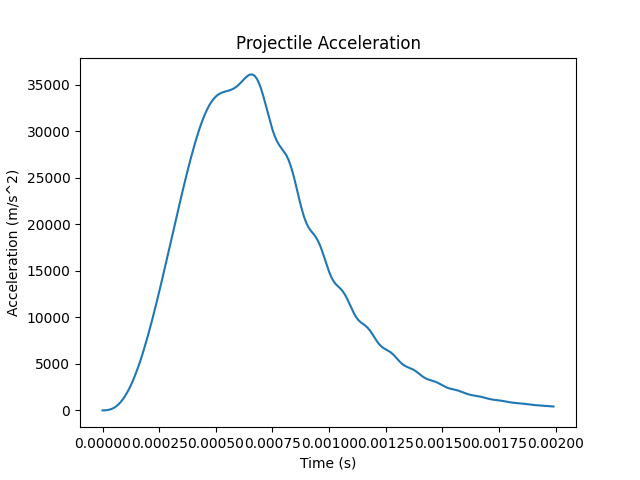
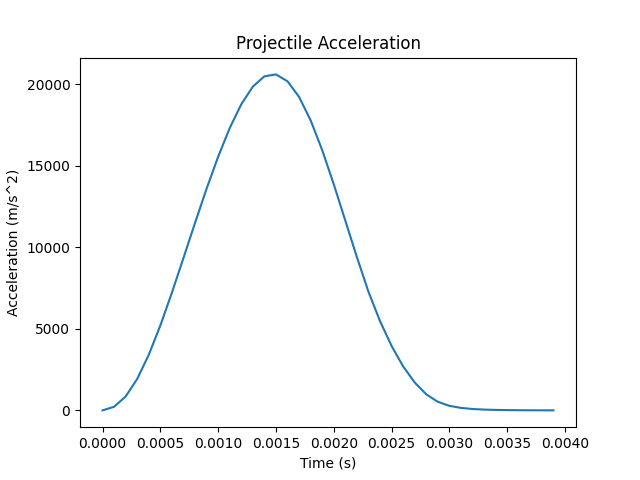
Conceptual stuff

diff --git a/Simulation/main_conceptual.py b/Simulation/main_conceptual.py
@@ -1,0 +1,148 @@
+import numpy as np
+import matplotlib.pyplot as plt
+import run_step as run
+import classes
+import parameters
+
+copper = parameters.copper
+
+# # Coils
+# # Material, inner radius, length, layers, wire diameter:
+# armature = classes.Coil(copper, 0.33 / 2, 3, 1, 0.025)
+#
+# # Projectile
+# # Coil, initial position, mass
+# projectile = classes.Projectile(armature, 0.1, 1250)
+#
+# stage_count = 20
+# stage_list = []
+#
+# # Material, inner radius, length, layers, wire diameter:
+# drivers = [classes.Coil(copper, 0.38 / 2, 3, 3, 0.025) for i in range(stage_count)]
+#
+# # Coil, position, trigger position, capacitance, charge voltage
+# stages = [classes.Stage(drivers[j], 3.0 * j, 3.0 * j, 0.01, 50000) for j in range(stage_count)]
+#
+# for i in range(stage_count):
+#     stage_list.append(stages[i])
+
+
+
+stage_count = 20
+stage_list = []
+
+# Material, inner radius, length, layers, wire diameter:
+armature = classes.Coil(copper, 0.33, 2, 1, 0.025)
+# Coil, initial position, mass
+projectile = classes.Projectile(armature, 0.05, 1250)
+
+# Material, inner radius, length, layers, wire diameter:
+drivers = [classes.Coil(copper, 0.35, 2, 1, 0.025) for i in range(stage_count)]
+# Coil, position, trigger position, capacitance, charge voltage
+stages = [classes.Stage(drivers[j], 2.0 * j, 2.0 * j, 0.02, 50000) for j in range(stage_count)]
+
+stages[0].capacitance = 0.075
+stages[0].layers = 3
+stages[1].capacitance = 0.05
+stages[1].layers = 2
+
+for i in range(stage_count):
+    stage_list.append(stages[i])
+
+
+efficiency = []
+driver_energy_sum = 0.
+driver_total_energy = []
+
+runtime = 0.25
+timestep = 0.0001
+
+for step in np.arange(0, runtime, timestep):
+    # Timestep, driver list, projectile
+    output = run.run_turn(timestep, stage_list, projectile)
+
+    driver_energy_sum = sum([drivers[k].energy for k in range(stage_count)])
+    driver_total_energy.append(driver_energy_sum)
+    efficiency.append(armature.energy / (driver_energy_sum + 0.001))
+
+time = np.arange(0, runtime, timestep)
+
+figp, p = plt.subplots()
+p.plot(time, projectile.position_list)
+p.set(xlabel='Time (s)', ylabel='Position (m)', title='Projectile Position')
+figp.savefig("conceptual_pos.png")
+
+figv, v = plt.subplots()
+v.plot(time, projectile.velocity_list)
+v.set(xlabel='Time (s)', ylabel='Velocity (m/s)', title='Projectile Velocity')
+figv.savefig("conceptual_vel.png")
+
+figa, p = plt.subplots()
+p.plot(time, projectile.acceleration_list)
+p.set(xlabel='Time (s)', ylabel='Acceleration (m/s^2)', title='Projectile Acceleration')
+figa.savefig("conceptual_accel.png")
+
+figi, i = plt.subplots()
+i.plot(time, projectile.coil.currents_list)
+ilegend = ["Armature"]
+for stage in range(len(stage_list)):
+    i.plot(time, stage_list[stage].coil.currents_list)
+    ilegend.append(("Driver " + str(stage + 1)))
+i.set(xlabel='Time (s)', ylabel='Currents (A)', title='Currents')
+i.legend(ilegend)
+figi.savefig("conceptual_currents.png")
+
+# figv, v = plt.subplots()
+# v.plot(time, projectile.coil.voltage_list)
+# for stage in range(len(stage_list)):
+#     v.plot(time, stage_list[stage].coil.voltage_list)
+# v.set(xlabel='Time (s)', ylabel='Voltages (V)', title='Voltages')
+# v.legend(['Armature', 'Driver 1', 'Driver 2', 'Driver 3', 'Driver 4', 'Driver 5'])
+# figv.savefig("conceptual_voltages.png")
+
+fign, n = plt.subplots()
+n.plot(time, efficiency)
+n.set(xlabel='Time (s)', ylabel='Efficiency', title='Coilgun Efficiency')
+fign.savefig("conceptual_efficiency.png")
+
+fige, e = plt.subplots()
+e.plot(time, projectile.coil.energy_list)
+e.plot(time, driver_total_energy)
+elegend = ["Armature", "Total Energy"]
+for stage in range(len(stage_list)):
+    e.plot(time, stage_list[stage].coil.energy_list)
+    elegend.append(("Driver " + str(stage + 1)))
+e.set(xlabel='Time (s)', ylabel='Energy (J)', title='Energy')
+e.legend(elegend)
+fige.savefig("conceptual_energy.png")
+
+figt, t = plt.subplots()
+t.plot(time, projectile.coil.temperature_list)
+tlegend = ["Armature"]
+for stage in range(len(stage_list)):
+    t.plot(time, stage_list[stage].coil.temperature_list)
+    tlegend.append(("Driver " + str(stage + 1)))
+t.set(xlabel='Time (s)', ylabel='Temperature (K)', title='Temperature')
+t.legend(tlegend)
+figt.savefig("conceptual_temperature.png")
+
+
+# a1 = stages[0].coil.r_inner - stages[0].coil.wire_d / 2
+# a2 = stages[0].coil.r_outer + stages[0].coil.wire_d / 2
+# w = (a2 - a1) / parameters.stress_element_divisions
+#
+# figs, (hoop, radial) = plt.subplots(nrows=2)
+# hoopc = hoop.contourf(time, np.arange(a1, a2, w), stages[0].coil.hoop_stress_list.T, cmap='plasma')
+# hoopcb = figs.colorbar(hoopc, ax=hoop)
+# hoopcb.set_label("Stress (Pa)", loc='center')
+# hoop.set(xlabel='Time (s)', ylabel='Radial Distance', title='Hoop Stress (Pa)')
+#
+# radialc = radial.contourf(time, np.arange(a1, a2, w), stages[0].coil.radial_stress_list.T, cmap='plasma')
+# radialcb = figs.colorbar(radialc, ax=radial)
+# radialcb.set_label("Stress (Pa)", loc='center')
+# radial.set(xlabel='Time (s)', ylabel='Radial Distance', title='Radial Stress (Pa)')
+# figs.savefig("conceptual_stress.png")
+
+
+
+plt.show()

diff --git a/Simulation/main.py b/Simulation/main.py
@@ -7,22 +7,22 @@ import parameters
 copper = parameters.copper
 
 # Coils
-# Material, inner radius, length, layers, wire diameter):
-armature = classes.Coil(copper, 0.0125, 0.1, 1, 0.001024)
+# Material, inner radius, length, layers, wire diameter:
+armature = classes.Coil(copper, 0.0125, 0.05, 1, 0.00129)
 
-driver1 = classes.Coil(copper, 0.015, 0.1, 1, 0.00129)
-driver2 = classes.Coil(copper, 0.015, 0.1, 1, 0.00129)
-driver3 = classes.Coil(copper, 0.015, 0.1, 1, 0.00129)
-driver4 = classes.Coil(copper, 0.015, 0.1, 1, 0.00129)
-driver5 = classes.Coil(copper, 0.015, 0.1, 1, 0.00129)
+driver1 = classes.Coil(copper, 0.015, 0.05, 3, 0.00129)
+driver2 = classes.Coil(copper, 0.015, 0.05, 2, 0.00129)
+driver3 = classes.Coil(copper, 0.015, 0.05, 2, 0.00129)
+driver4 = classes.Coil(copper, 0.015, 0.05, 2, 0.00129)
+driver5 = classes.Coil(copper, 0.015, 0.05, 2, 0.00129)
 
 # Stages
 # Coil, position, trigger position, capacitance, charge voltage
-stage1 = classes.Stage(driver1, 0.0, 0.0, 0.003 * 1, 1000)
-stage2 = classes.Stage(driver2, 0.1, 0.1, 0.003 * 1, 1000)
-stage3 = classes.Stage(driver3, 0.2, 0.2, 0.003 * 1, 1000)
-stage4 = classes.Stage(driver4, 0.3, 0.3, 0.003 * 1, 1000)
-stage5 = classes.Stage(driver5, 0.4, 0.4, 0.003 * 1, 1000)
+stage1 = classes.Stage(driver1, 0.0, 0.0, 0.0024 * 2, 450)
+stage2 = classes.Stage(driver2, 0.1, 0.1, 0.0024 * 2, 450)
+stage3 = classes.Stage(driver3, 0.2, 0.2, 0.0024 * 2, 450)
+stage4 = classes.Stage(driver4, 0.3, 0.3, 0.0024 * 2, 450)
+stage5 = classes.Stage(driver5, 0.4, 0.4, 0.0024 * 2, 450)
 
 # Projectile
 # Coil, initial position, mass
@@ -31,8 +31,8 @@ projectile = classes.Projectile(armature, 0.01, 0.1)
 stage_list = [stage1, stage2, stage3, stage4, stage5]
 efficiency = []
 
-runtime = 0.002
-timestep = 0.00001
+runtime = 0.004
+timestep = 0.0001
 
 for step in np.arange(0, runtime, timestep):
     # Timestep, driver list, projectile
@@ -79,21 +79,21 @@ n.plot(time, efficiency)
 n.set(xlabel='Time (s)', ylabel='Efficiency', title='Coilgun Efficiency')
 fign.savefig("efficiency.png")
 
-# fige, e = plt.subplots()
-# e.plot(time, projectile.coil.energy_list)
-# for stage in range(len(stage_list)):
-#     e.plot(time, stage_list[stage].coil.energy_list)
-# e.set(xlabel='Time (s)', ylabel='Energy (J)', title='Energy')
-# e.legend(['Armature', 'Driver 1', 'Driver 2', 'Driver 3', 'Driver 4', 'Driver 5'])
-# fige.savefig("energy.png")
+fige, e = plt.subplots()
+e.plot(time, projectile.coil.energy_list)
+for stage in range(len(stage_list)):
+    e.plot(time, stage_list[stage].coil.energy_list)
+e.set(xlabel='Time (s)', ylabel='Energy (J)', title='Energy')
+e.legend(['Armature', 'Driver 1', 'Driver 2', 'Driver 3', 'Driver 4', 'Driver 5'])
+fige.savefig("energy.png")
 
-# figt, t = plt.subplots()
-# t.plot(time, projectile.coil.temperature_list)
-# for stage in range(len(stage_list)):
-#     t.plot(time, stage_list[stage].coil.temperature_list)
-# t.set(xlabel='Time (s)', ylabel='Temperature (K)', title='Temperature')
-# t.legend(['Armature', 'Driver 1', 'Driver 2', 'Driver 3', 'Driver 4', 'Driver 5'])
-# figt.savefig("temperature.png")
+figt, t = plt.subplots()
+t.plot(time, projectile.coil.temperature_list)
+for stage in range(len(stage_list)):
+    t.plot(time, stage_list[stage].coil.temperature_list)
+t.set(xlabel='Time (s)', ylabel='Temperature (K)', title='Temperature')
+t.legend(['Armature', 'Driver 1', 'Driver 2', 'Driver 3', 'Driver 4', 'Driver 5'])
+figt.savefig("temperature.png")
 
 
 a1 = stage1.coil.r_inner - stage1.coil.wire_d / 2
@@ -102,13 +102,14 @@ w = (a2 - a1) / parameters.stress_element_divisions
 
 figs, (hoop, radial) = plt.subplots(nrows=2)
 hoopc = hoop.contourf(time, np.arange(a1, a2, w), stage1.coil.hoop_stress_list.T, cmap='plasma')
-figs.colorbar(hoopc, ax=hoop)
+hoopcb = figs.colorbar(hoopc, ax=hoop)
+hoopcb.set_label("Stress (Pa)", loc='center')
 hoop.set(xlabel='Time (s)', ylabel='Radial Distance', title='Hoop Stress (Pa)')
 
 radialc = radial.contourf(time, np.arange(a1, a2, w), stage1.coil.radial_stress_list.T, cmap='plasma')
-figs.colorbar(radialc, ax=radial)
+radialcb = figs.colorbar(radialc, ax=radial)
+radialcb.set_label("Stress (Pa)", loc='center')
 radial.set(xlabel='Time (s)', ylabel='Radial Distance', title='Radial Stress (Pa)')
-
 figs.savefig("stress.png")
 
 

diff --git a/Simulation/methods.py b/Simulation/methods.py
@@ -26,11 +26,8 @@ def mutual_inductance(stage, projectile):
     return M
 
 
-def solve_currents(stage, projectile, driver_step, armature_step):
-    armature = projectile.coil
+def solve_driver_current(stage, driver_step):
     driver = stage.coil
-    M = mutual_inductance(stage, projectile)
-
 
     # driver.current = stage.initial_voltage / driver.inductance * driver_step * \
     #                       pow(math.e, -driver.resistance / (2 * driver.inductance) * driver_step)
@@ -55,10 +52,15 @@ def solve_currents(stage, projectile, driver_step, armature_step):
         driver.peak_current = driver.current
         driver.diode_step = driver_step
 
+def solve_armature_current(stage, projectile, armature_step):
+    armature = projectile.coil
+    driver = stage.coil
+    M = mutual_inductance(stage, projectile)
+
     # transfer_eff = pow(M, 2) / (armature.inductance * driver.inductance)
     transfer_eff = 1
-    armature.current = transfer_eff * -M / armature.inductance * driver.current * (1 - pow(math.e, -armature_step / armature.tau))
-
+    armature_current = transfer_eff * -M / armature.inductance * driver.current * (1 - pow(math.e, -armature_step / armature.tau))
+    return armature_current
 
 def solve_stresses(coil):
     nu = coil.material.poisson

diff --git a/Simulation/run_step.py b/Simulation/run_step.py
@@ -14,13 +14,16 @@ def run_turn(timestep, stage_list, projectile):
         projectile.stage += 1
         print("Switched stage", switch + 1)
 
+    armature.current = 0
     for stage in on_drivers:
         driver = stage.coil
 
         methods.increment_time(timestep, driver)
-        methods.solve_currents(stage, projectile, driver.time_on, armature.time_on)
+        methods.solve_driver_current(stage, driver.time_on)
         methods.solve_thermals(driver, timestep)
         methods.solve_energy(driver, timestep)
+
+        armature.current += methods.solve_armature_current(stage, projectile, armature.time_on)
 
         methods.solve_stresses(driver)
 

diff --git a/Simulation/classes.py b/Simulation/classes.py
@@ -53,7 +53,7 @@ class Coil:
         # print("Wire Diameter", self.wire_d)
         # print("Layers", self.layers)
         print("Turns", self.turns)
-        print("Coil Length", self.length)
+        print("Coil Length", self.length, "m")
         print("Resistance", self.wire_resistance, "Ohm")
         print("Inductance", self.inductance, "H")
 
